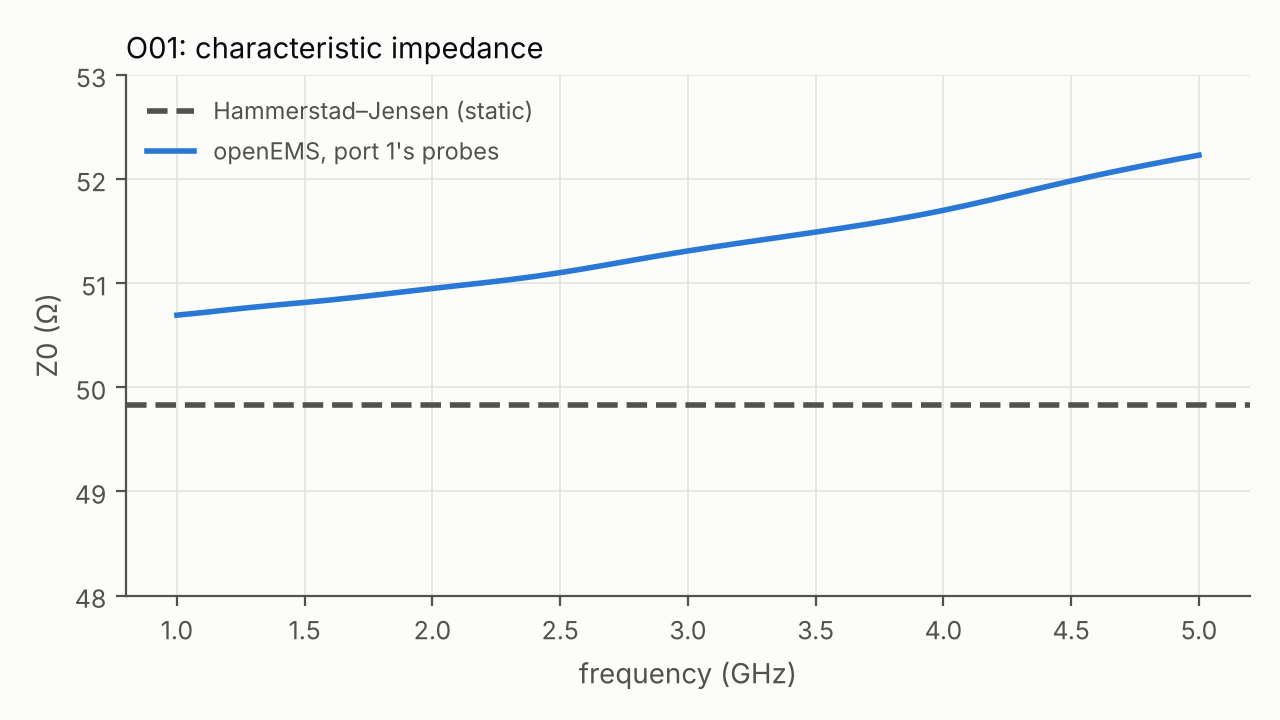
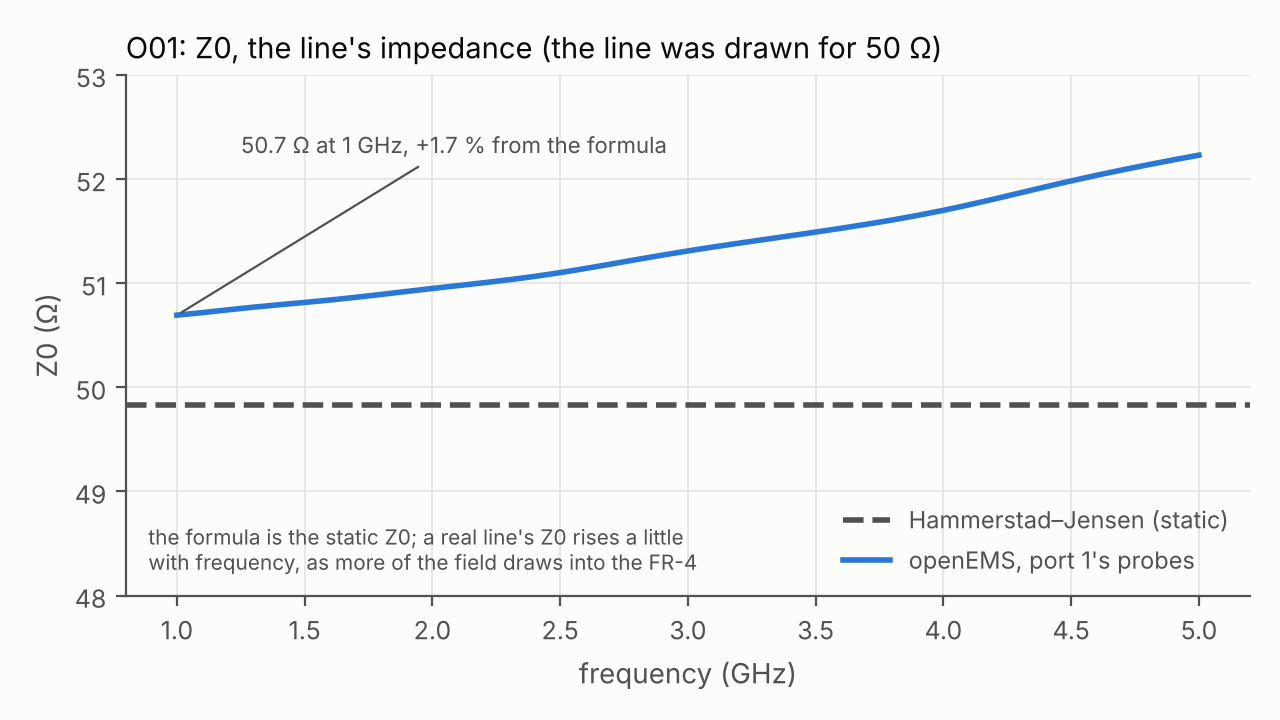
O01 results: explained in plain words, with the field across the line
The O01 section opens with what the test is and a table of what each
number means against what openEMS gave, then openEMS's field across the
line, a chart of where the power goes, and the Z0 and eps_eff charts with
plain labels and captions.

diff --git a/docs/wiki/OpenEMS-Implementation-Test-Board-Results.md b/docs/wiki/OpenEMS-Implementation-Test-Board-Results.md
@@ -1,16 +1,34 @@
 # 38. OpenEMS Implementation Test Board Results
 
 What openEMS gave on each board of [OpenEMS Implementation Test Boards](OpenEMS-Implementation-Test-Boards.md),
-against numbers known without any solver. Every chart and picture here is drawn from openEMS's own
-output by the example's `make_pictures.py`; nothing is drawn by hand. The numbers are in each
+against numbers known without any solver. Every chart and field picture here is drawn from openEMS's
+own output by the example's `make_pictures.py`; nothing is drawn by hand. The board picture is drawn
+from the board's KiCad file. The numbers are in each
 example's `results.json` on the `OpenEMS_Integration` branch, with the versions and the hashes of
 the code that made them, and each example's `results.md` has the full tables.
 
 ## 38.1 O01 Microstrip
 
-One straight 2.9 mm microstrip on a 1.53 mm FR-4 core (εr 4.4) over a solid ground: a 50 Ω line by
-Hammerstad and Jensen's formulas. Port 1 is excited and port 2 ends the line in 50 Ω, so one run
-gives S11 and S21, and each port measures Z0 and the propagation constant from its own probes.
+![O01 drawn from above and in section: a 50 by 30 mm FR-4 board with a 2.9 mm strip on Top running its whole length over a ground plane on Bottom; dashed boxes mark the 10 mm ports at each end and lines their measurement planes, 38 mm apart](https://raw.githubusercontent.com/RolandThsive/KiCad-EM-Stackup-Exporter-KESE/main/docs/images/OpenEMS-Implementation-Test-Boards/O01_microstrip/oemsboards_1_board.webp)
+
+### In Short
+
+O01 is the simplest high-frequency test there is: one copper strip over a ground plane, 2.9 mm wide
+on 1.53 mm of FR-4, which makes it a 50 Ω line. openEMS sends a signal in at port 1 on the left; the
+signal runs along the strip to port 2 on the right, where a 50 Ω end takes it, and almost nothing
+should come back. Textbook formulas say what the line's impedance is, how fast the signal travels and
+how much of its power the FR-4 soaks up on the way. openEMS lands within 2 % of each:
+
+| What | What it means | The formulas | openEMS |
+|---|---|---|---|
+| Z0, the line's impedance | the ratio of voltage to current in the travelling signal; a 50 Ω source and end must match it, or part of the signal bounces back | 49.83 Ω | 50.69 Ω at 1 GHz, +1.7 % |
+| εeff, the effective permittivity | sets the signal's speed along the line, c/√εeff: about 0.54 times the speed of light here | 3.318 to 3.397 (1 to 4 GHz) | 3.364 to 3.421, +1.4 to +0.7 % |
+| Power that reaches port 2 | what is left after the 38 mm between the two measurement planes | 92.4 to 92.3 % (the FR-4's loss) | 92.4 to 91.7 % |
+| Power that comes back | what bounces off port 2 because the line is not exactly 50 Ω | almost none | under 0.08 % (S11 −31 to −53 dB) |
+
+A wrong εr, a wrong core thickness, a port in the wrong place or a broken read-back would each move at
+least one of these numbers well past 2 %: the five bugs O01 found ([What O01 Found](#what-o01-found))
+showed as a Z0 of 76 Ω and an εeff 11 % high.
 
 | Item | Value |
 |---|---|
@@ -21,6 +39,18 @@ gives S11 and S21, and each port measures Z0 and the propagation constant from i
 | Time and memory | 88 s and 0.15 GB on 4 cores, sharing the machine with an Elmer solve |
 | Preflight | all 16 lines pass |
 
+### What the Line Looks Like Inside
+
+![Two panels, the field across the line halfway along it at 3 GHz, from openEMS. Top: the electric field, darkest in the FR-4 under the 2.9 mm strip and at the strip's edges, its arrows running from the strip down to the ground and fringing out through the air beside the strip. Bottom: the magnetic field, strongest under the strip, its lines circling the strip](https://raw.githubusercontent.com/RolandThsive/KiCad-EM-Stackup-Exporter-KESE/main/docs/images/OpenEMS-Implementation-Test-Board-Results/O01_microstrip/oemsresults_4_section.webp)
+
+The signal is a wave of electric and magnetic field that travels along the strip. Across the line,
+the electric field (top) runs from the strip down to the ground, packed into the FR-4 under the strip
+and fringing out at its edges; the magnetic field (bottom) circles the strip. From openEMS's own field
+in this picture, about nine tenths of the electric field's energy sits in the FR-4 and a tenth in the
+air. The signal therefore travels at a speed between that in FR-4 (εr 4.4) and that in air (1): εeff
+is 3.4. The width of the strip against the height of the FR-4 sets how much field crowds under it,
+and so the line's impedance: a wider strip or a thinner core gives a lower Z0.
+
 ### Expected Against What Came Out
 
 | f | Z0, openEMS | Z0, Hammerstad–Jensen | εeff from S21 | εeff, Kirschning–Jansen | Difference | S21 | S21 from the dielectric's loss alone | S11 |
@@ -30,28 +60,41 @@ gives S11 and S21, and each port measures Z0 and the propagation constant from i
 | 3 GHz | 51.31 Ω | 49.83 Ω | 3.395 | 3.368 | +0.8 % | −0.368 dB | −0.347 dB | −31.2 dB |
 | 4 GHz | 51.70 Ω | 49.83 Ω | 3.421 | 3.397 | +0.7 % | −0.376 dB | −0.349 dB | −31.0 dB |
 
-openEMS is within 2 % of the closed forms everywhere: Z0 +1.7 % at 1 GHz, εeff +0.7 to +1.4 %. That
-is more than the formulas' own error (0.2 to 0.6 % for εeff, about 1 % for Z0), so the rest belongs
-to the FDTD model; [OpenEMS Implementation Accuracy](OpenEMS-Implementation-Accuracy.md) takes it
-apart.
+S21 and S11 are the signal that arrives at port 2 and the signal that comes back to port 1, each as a
+share of what went in, in decibels: −0.37 dB is 92 % of the power, −31 dB is 0.08 %. openEMS is within
+2 % of the closed forms everywhere: Z0 +1.7 % at 1 GHz, εeff +0.7 to +1.4 %. That is more than the
+formulas' own error (0.2 to 0.6 % for εeff, about 1 % for Z0), so the rest belongs to the FDTD model;
+[OpenEMS Implementation Accuracy](OpenEMS-Implementation-Accuracy.md) takes it apart.
 
-![εeff against frequency, 1 to 5 GHz: Kirschning and Jansen's curve rises from 3.318 to 3.43; openEMS from S21 runs parallel to it and 0.02 to 0.05 above, with the h 0.1 mm run's points on top of it; port 1's probes run another 0.02 to 0.05 higher](https://raw.githubusercontent.com/RolandThsive/KiCad-EM-Stackup-Exporter-KESE/main/docs/images/OpenEMS-Implementation-Test-Board-Results/O01_microstrip/oemsresults_1_eps_eff.webp)
+![Z0 against frequency: openEMS rises from 50.7 Ω at 1 GHz to 52.2 Ω at 5 GHz, labelled 1.7 % above the formula at 1 GHz; Hammerstad and Jensen's static Z0 is a flat dashed line at 49.83 Ω; a note says that a real line's Z0 rises a little with frequency as more of the field draws into the FR-4](https://raw.githubusercontent.com/RolandThsive/KiCad-EM-Stackup-Exporter-KESE/main/docs/images/OpenEMS-Implementation-Test-Board-Results/O01_microstrip/oemsresults_2_z0.webp)
 
-εeff from S21 follows Kirschning and Jansen's dispersion with an offset that shrinks from 1.4 to
-0.7 % across the band. The finer mesh (points) lands on the standard one. εeff from port 1's own
-probes is 0.6 to 1.5 % above the S21 value: the port takes its derivative over three probes 1.8 mm
-apart, S21 its phase over 38 mm, so the S21 value is the one to quote.
+Z0 is what the line was drawn for. Hammerstad and Jensen's formula gives the static value, 49.83 Ω,
+for this strip's width and thickness on this core. A real microstrip's impedance rises a little with
+frequency as the field draws further into the FR-4, so the fair comparison is at the lowest
+frequency: 50.7 Ω at 1 GHz, +1.7 %.
 
-![Z0 against frequency: openEMS rises from 50.7 Ω at 1 GHz to 52.2 Ω at 5 GHz; Hammerstad and Jensen's static Z0 is a flat line at 49.83 Ω](https://raw.githubusercontent.com/RolandThsive/KiCad-EM-Stackup-Exporter-KESE/main/docs/images/OpenEMS-Implementation-Test-Board-Results/O01_microstrip/oemsresults_2_z0.webp)
+![εeff against frequency, 1 to 5 GHz: the textbook formula of Kirschning and Jansen rises from 3.318 to 3.43; openEMS from S21's phase runs parallel to it and 0.02 to 0.05 above, with the finer mesh's points on top of it; port 1's probes run another 0.02 to 0.05 higher; a note says that at 3 GHz εeff 3.39 means the signal runs at 0.54 times the speed of light, 163 mm a nanosecond](https://raw.githubusercontent.com/RolandThsive/KiCad-EM-Stackup-Exporter-KESE/main/docs/images/OpenEMS-Implementation-Test-Board-Results/O01_microstrip/oemsresults_1_eps_eff.webp)
 
-Hammerstad and Jensen's Z0 is the static one. A microstrip's impedance does rise with frequency as
-the field draws into the substrate, so the fair comparison is at 1 GHz, +1.7 %.
+εeff is the line's speed: the signal covers 163 mm a nanosecond at 3 GHz, 0.54 times the speed of
+light. openEMS gets it from the phase of S21 over the 38 mm between the measurement planes, and it
+follows Kirschning and Jansen's formula with an offset that shrinks from 1.4 to 0.7 % across the band.
+The finer mesh (points) lands on the standard one. Port 1's own probes, 1.8 mm apart, give a value 0.6
+to 1.5 % higher, so the S21 value is the one to quote.
+
+![Where the power sent into port 1 goes, at 1, 2, 3 and 4 GHz, as bars of 100 %: 92.4, 92.0, 91.9 and 91.7 % arrives at port 2; 7.6 to 8.2 % is lost on the way; the share reflected is under 0.001 to 0.079 %; a black tick on each bar marks what the FR-4's loss alone would leave, 92.3 to 92.4 %](https://raw.githubusercontent.com/RolandThsive/KiCad-EM-Stackup-Exporter-KESE/main/docs/images/OpenEMS-Implementation-Test-Board-Results/O01_microstrip/oemsresults_5_power.webp)
+
+Of the power that crosses port 1's measurement plane, 92 % arrives at port 2's. About 8 % is lost on
+the way, nearly all of it as heat in the FR-4 (tan δ 0.02): the black ticks are what that loss alone
+would leave, by Pozar's formula. openEMS loses a further 0.3 to 0.6 % of the power from 2 to 4 GHz,
+which is the line's ends and ports radiating a little into the air around the board; the copper is lossless
+in this model. What comes back is too small to see on the bars: under 0.001 % at 1 GHz and under
+0.08 % up to 4 GHz.
 
 ![An animation of Ez in the plane halfway through the FR-4 core, seen from above, over the whole domain: the pulse's lobes enter at port 1 on the left, run along the strip to port 2 on the right and are absorbed there, with almost nothing reflected back](https://raw.githubusercontent.com/RolandThsive/KiCad-EM-Stackup-Exporter-KESE/main/docs/images/OpenEMS-Implementation-Test-Board-Results/O01_microstrip/oemsresults_3_field.webp)
 
-Ez halfway through the core, from openEMS's field dump of the same run (87 samples on its own mesh).
-The field stays under the strip, the line's quasi-TEM mode, and the 50 Ω end at port 2 takes the
-pulse with almost no echo, which is the −31 to −53 dB of S11.
+The same run seen from above: Ez halfway through the core, from openEMS's field dump (87 samples on its
+own mesh). The pulse enters at port 1, stays under the strip as it runs along it, and the 50 Ω end at
+port 2 takes it with almost no echo, which is the −31 to −53 dB of S11.
 
 ### The Mesh Study
 
